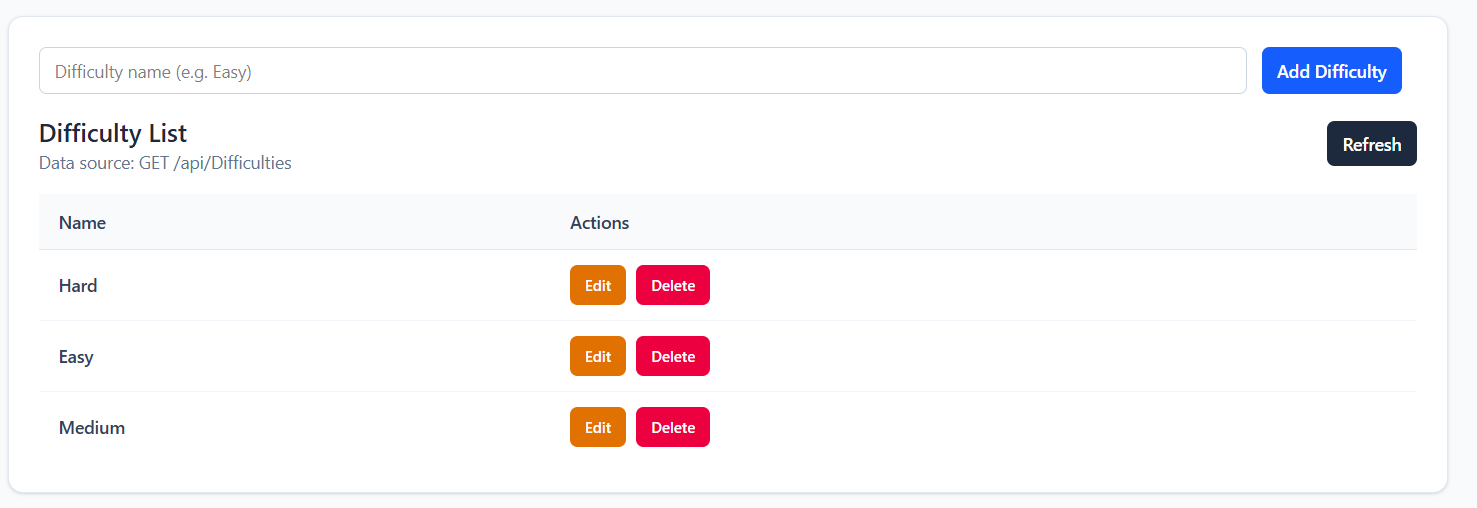
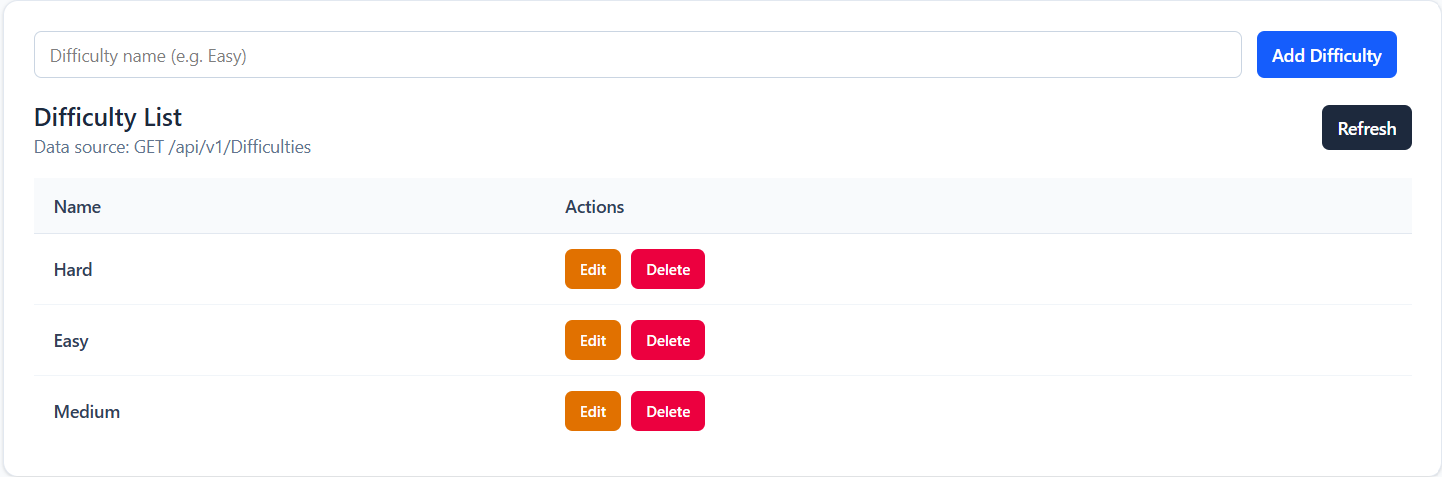
1. 更新前端 api 版本號顯示。 2. 更新 README.md 圖片。

diff --git a/frontend/nz-walks-ui/src/pages/Dashboard.tsx b/frontend/nz-walks-ui/src/pages/Dashboard.tsx
@@ -119,18 +119,18 @@ const Dashboard = () => {
                     <h1 className="text-2xl font-bold text-slate-800">NZWalks Management Dashboard</h1>
                     <p className="mt-1 text-sm text-slate-500">
                         Login API:{' '}
-                        <code className="rounded bg-slate-100 px-1 py-0.5">POST https://localhost/api/Auth/Login</code>
+                        <code className="rounded bg-slate-100 px-1 py-0.5">POST https://localhost/api/v1/Auth/Login</code>
                     </p>
                     <p className="text-sm text-slate-500">
                         Regions API:{' '}
-                        <code className="rounded bg-slate-100 px-1 py-0.5">https://localhost/api/Regions</code>
+                        <code className="rounded bg-slate-100 px-1 py-0.5">https://localhost/api/v1/Regions</code>
                     </p>
                     <p className="text-sm text-slate-500">
                         Difficulties API:{' '}
-                        <code className="rounded bg-slate-100 px-1 py-0.5">https://localhost/api/Difficulties</code>
+                        <code className="rounded bg-slate-100 px-1 py-0.5">https://localhost/api/v1/Difficulties</code>
                     </p>
                     <p className="text-sm text-slate-500">
-                        Walks API: <code className="rounded bg-slate-100 px-1 py-0.5">https://localhost/api/Walks</code>
+                        Walks API: <code className="rounded bg-slate-100 px-1 py-0.5">https://localhost/api/v1/Walks</code>
                     </p>
 
                     <form className="mt-4 grid gap-3 md:max-w-md" onSubmit={handleLogin}>

diff --git a/frontend/nz-walks-ui/src/components/WalkList.tsx b/frontend/nz-walks-ui/src/components/WalkList.tsx
@@ -272,7 +272,7 @@ const WalkList = ({ authToken }: WalkListProps) => {
             <div className="mb-4 flex items-center justify-between">
                 <div>
                     <h2 className="text-xl font-semibold text-slate-800">Walk List</h2>
-                    <p className="text-sm text-slate-500">Data source: GET /api/Walks</p>
+                    <p className="text-sm text-slate-500">Data source: GET /api/v1/Walks</p>
                     {!authToken && (
                         <p className="text-xs text-amber-700">Login required to load region/difficulty options.</p>
                     )}

diff --git a/frontend/nz-walks-ui/src/pages/RegisterPage.tsx b/frontend/nz-walks-ui/src/pages/RegisterPage.tsx
@@ -77,7 +77,7 @@ const RegisterPage = () => {
                 <h1 className="text-2xl font-bold text-slate-800">Create Account</h1>
                 <p className="mt-1 text-sm text-slate-500">
                     Register API:{' '}
-                    <code className="rounded bg-slate-100 px-1 py-0.5">POST https://localhost/api/Auth/Register</code>
+                    <code className="rounded bg-slate-100 px-1 py-0.5">POST https://localhost/api/v1/Auth/Register</code>
                 </p>
 
                 <form className="mt-5 grid gap-3" onSubmit={handleSubmit}>

diff --git a/frontend/nz-walks-ui/src/components/DifficultyList.tsx b/frontend/nz-walks-ui/src/components/DifficultyList.tsx
@@ -134,7 +134,7 @@ const DifficultyList = () => {
             <div className="mb-4 flex items-center justify-between">
                 <div>
                     <h2 className="text-xl font-semibold text-slate-800">Difficulty List</h2>
-                    <p className="text-sm text-slate-500">Data source: GET /api/Difficulties</p>
+                    <p className="text-sm text-slate-500">Data source: GET /api/v1/Difficulties</p>
                 </div>
                 <button
                     type="button"

diff --git a/frontend/nz-walks-ui/src/components/RegionList.tsx b/frontend/nz-walks-ui/src/components/RegionList.tsx
@@ -167,7 +167,7 @@ const RegionList = () => {
             <div className="mb-4 flex items-center justify-between">
                 <div>
                     <h2 className="text-xl font-semibold text-slate-800">Region List</h2>
-                    <p className="text-sm text-slate-500">Data source: GET /api/Regions</p>
+                    <p className="text-sm text-slate-500">Data source: GET /api/v1/Regions</p>
                 </div>
                 <button
                     type="button"
